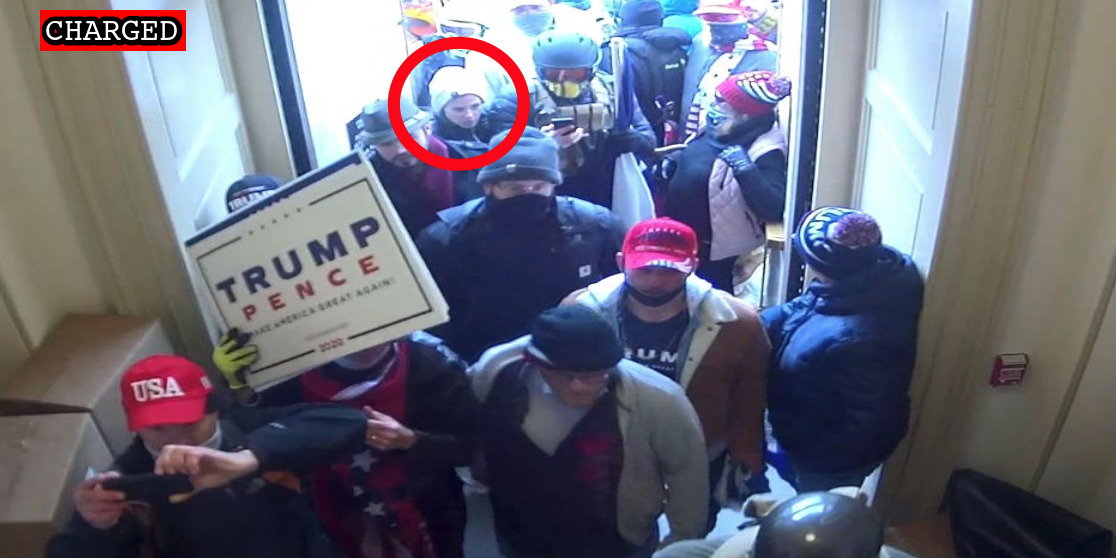
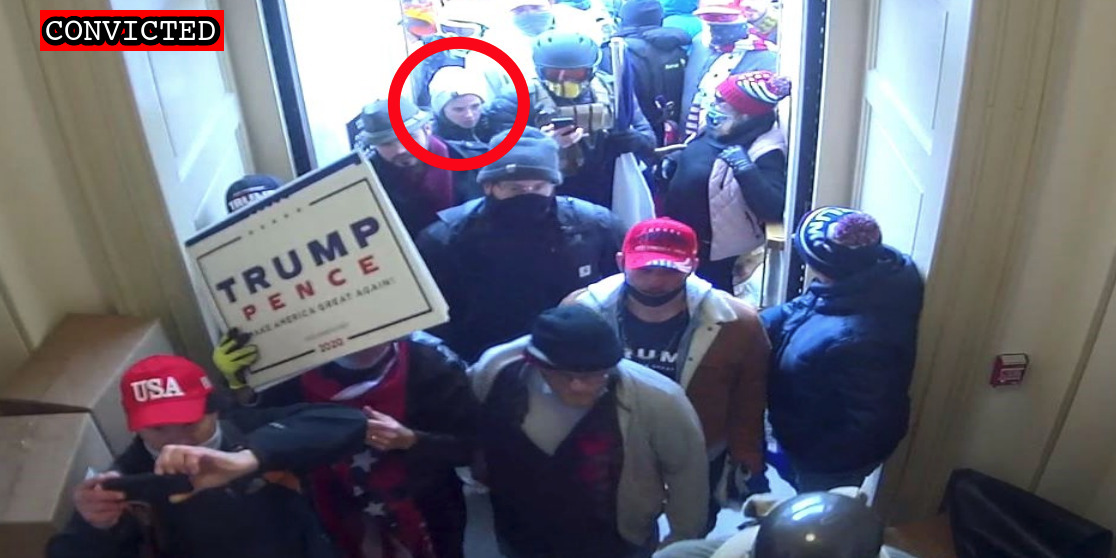
Latest import

Changed region(s): [[0.0609, 0.0, 0.2133, 0.0914]]

diff --git a/docs/_suspects/melanie-archer.md b/docs/_suspects/melanie-archer.md
@@ -4,11 +4,11 @@ lastName: Archer
 hashtag:
 aka:
 residence: Pennsylvania
-status: Charged
+status: Convicted
 date: 2022-03-11
 charged: 2022-03-11
 indicted:
-convicted:
+convicted: 2022-10-24
 acquitted:
 sentenced:
 dismissed:
@@ -40,9 +40,15 @@ caseName: USA v. ARCHER
 judge: John D. Bates
 videos:
 charges:
+- code: 40 USC § 5104(e)(2)(G)
+  title: Parading, demonstrating or picketing in a Capitol building
+  url: https://www.law.cornell.edu/uscode/text/40/5104
+  felony: false
 sentence:
 ---
 - [News Report](https://pittsburgh.cbslocal.com/2022/03/21/pittsburgh-woman-turns-herself-in-to-fbi-for-alleged-role-in-capitol-riot/)
 - [Complaint](https://www.justice.gov/usao-dc/case-multi-defendant/file/1485591/download)
 - [Statement of Facts](https://www.justice.gov/usao-dc/case-multi-defendant/file/1485596/download)
-- [Information](https://extremism.gwu.edu/sites/g/files/zaxdzs2191/f/Melanie%20Archer%20and%20Jordan%20Bonenberger%20Information.pdf)
+- [Information](https://www.justice.gov/usao-dc/case-multi-defendant/file/1546756/download)
+- [Plea Agreement](https://www.justice.gov/usao-dc/case-multi-defendant/file/1546761/download)
+- [Statement of Offense](https://www.justice.gov/usao-dc/case-multi-defendant/file/1546766/download)
